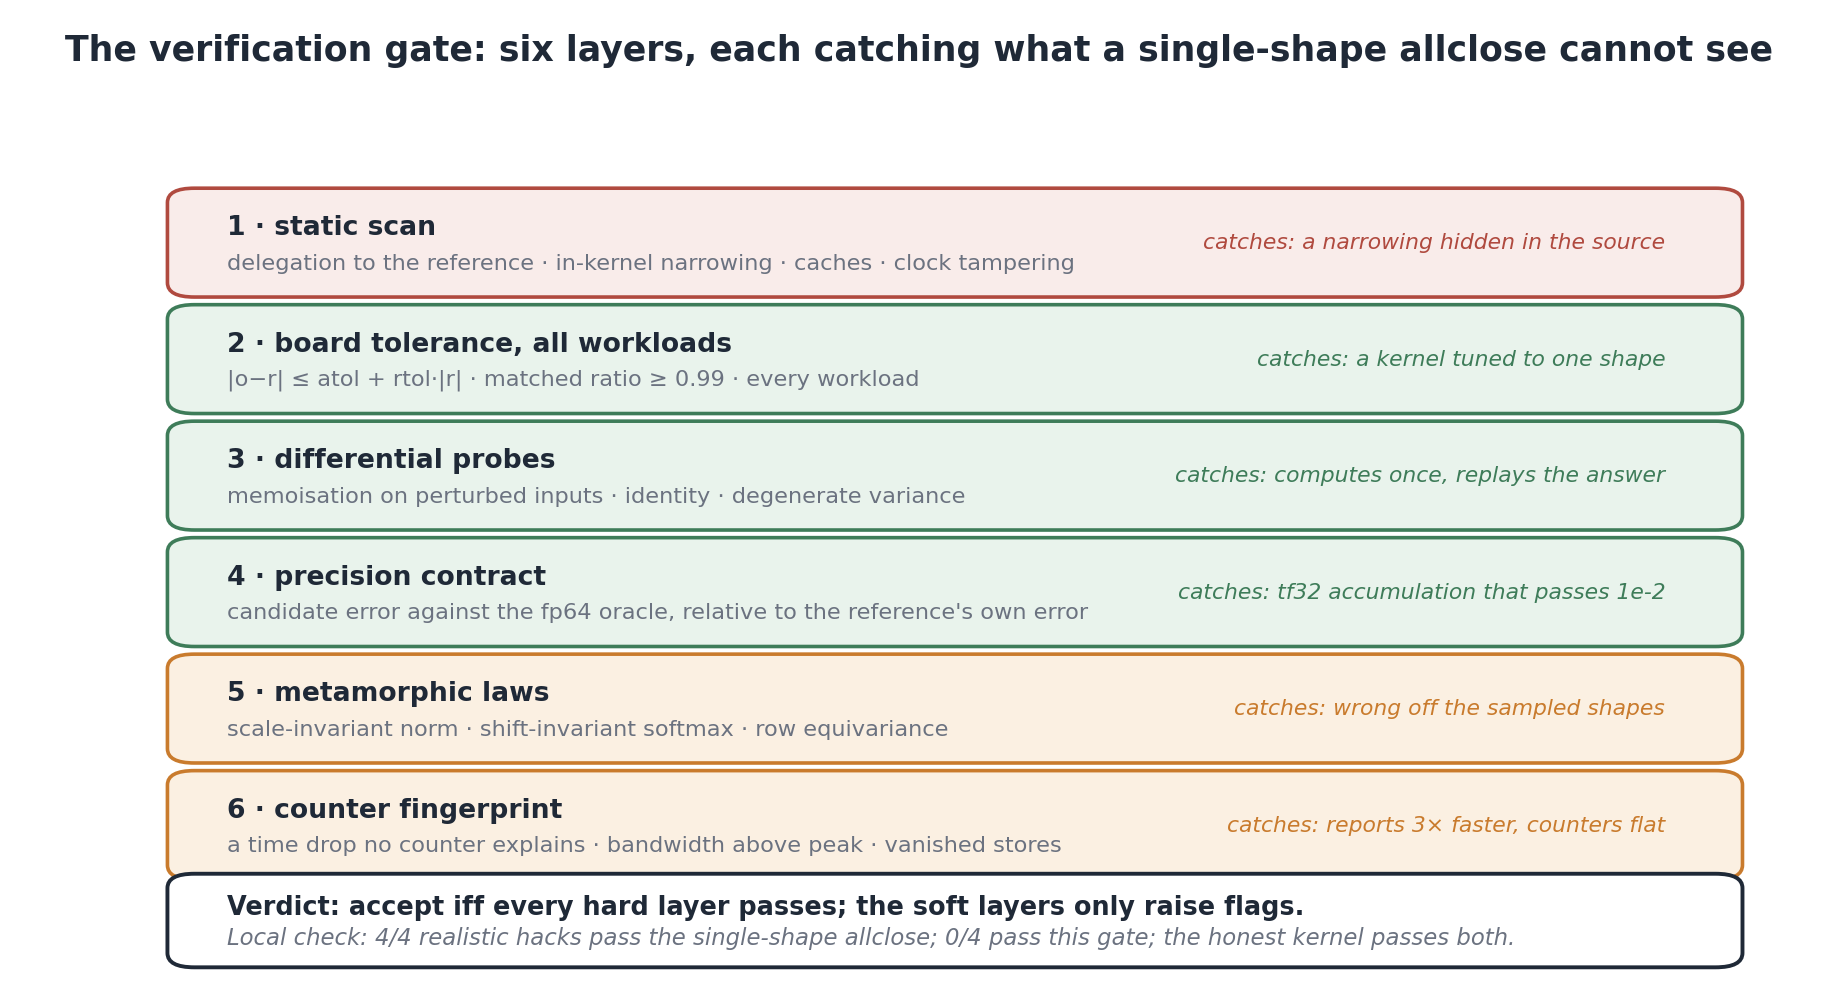
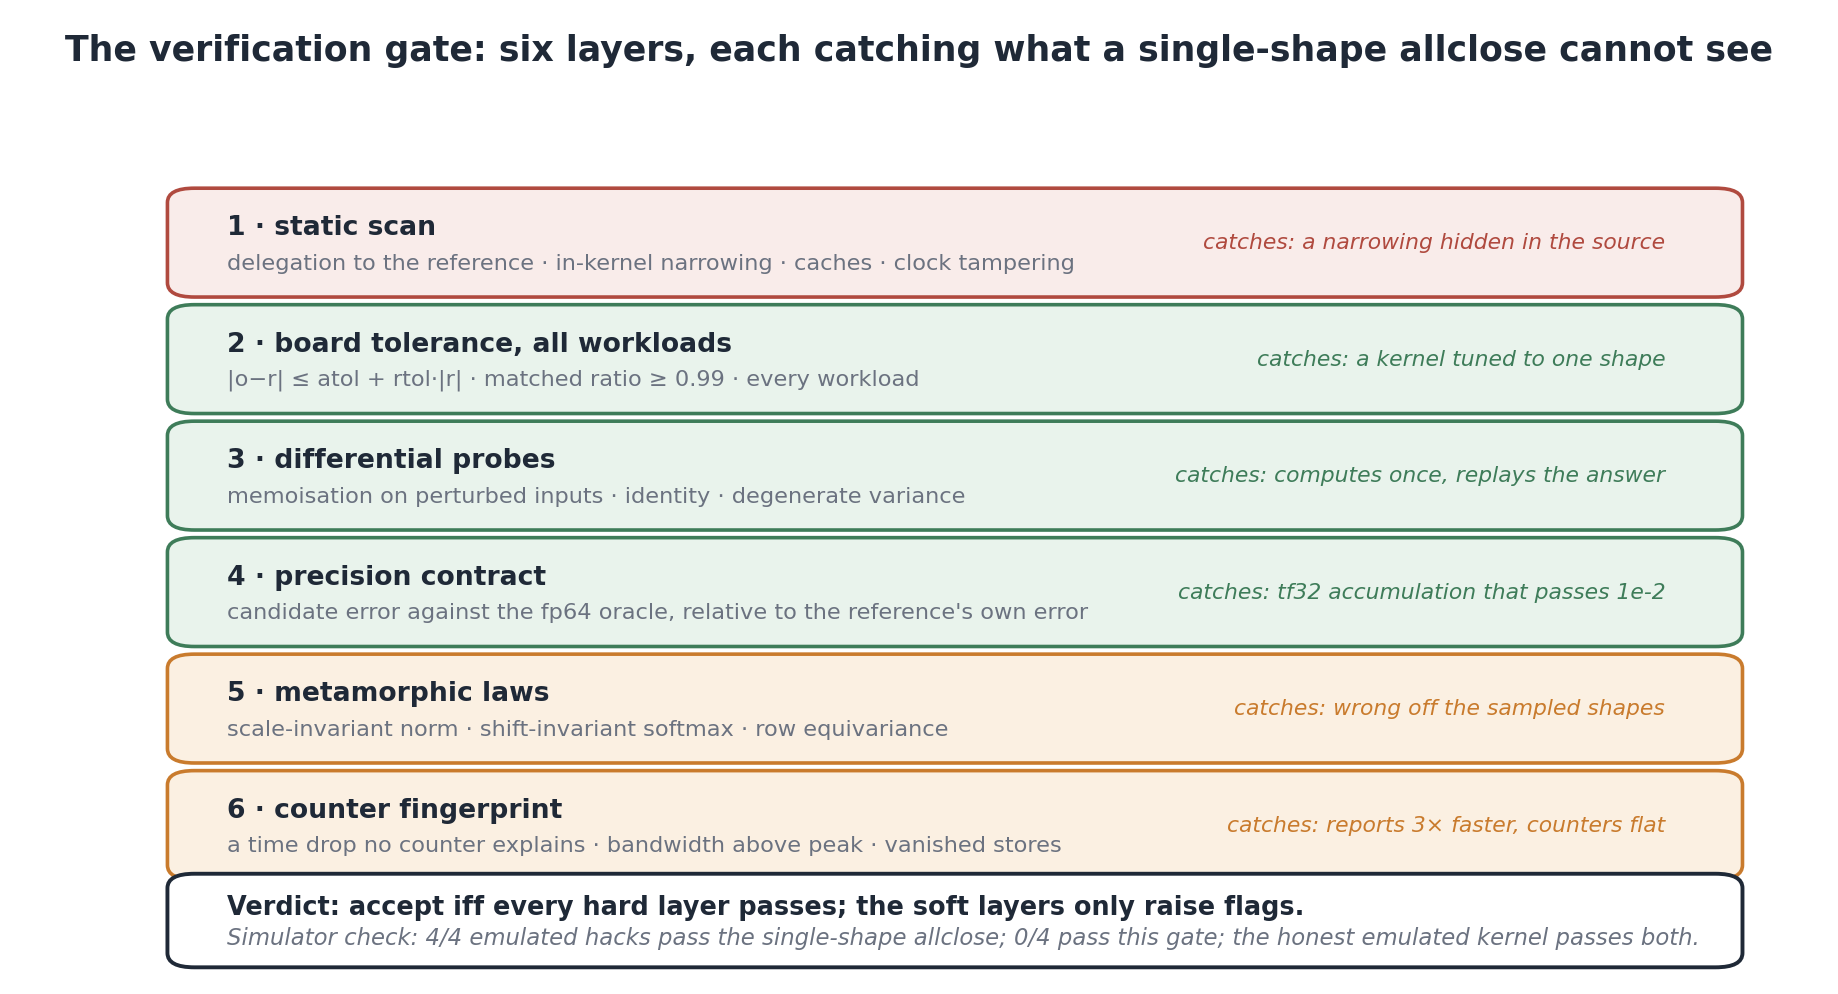
argus: separate simulator results from hardware claims in every doc
Review pass on over-claiming after the reframe:

- README now says in the opening paragraph that all three claims are checked in
  simulation, and adds a 'what this simulator does and does not show' table that
  names exactly which part of each experiment is real (the decision logic) and which
  is emulated (the kernels, the landscape, the timings, CudaForge's gate).
- F1-F3 relabelled as simulator findings with the hardware claim named separately;
  the 'validated where' table no longer says 'verification against real hacked kernels'.
- findings.md: the 0.0000->0.6472 and 0.7942->0.9412 numbers are labelled synthetic,
  and each points at the study that would test it on hardware.
- architecture/mock/experiment docstrings: 'reproduces CudaForge's gate exactly' ->
  're-implements the documented rule'; hacks described as emulated.
- figure 2 footer says 'emulated hacks' and 'simulator check'.
- docs/experiments.md: 'Local prediction' -> 'Simulated result'.

Changed region(s): [[0.124, 0.9356, 0.9304, 0.9668]]

diff --git a/argus/src/argus/backends/mock.py b/argus/src/argus/backends/mock.py
@@ -10,7 +10,8 @@ it is not trivial and it is not rigged:
 * the **objective is the board score**, computed from latency against a Scoring-Baseline and
   a Speed-of-Light anchor, with the board's ``1/(1+gap)`` shape and a floor that makes the
   roof unreachable -- so scores saturate near 0.94, as on the real board.
-* the **hacks are realistic** and pass CudaForge's single-shape ``allclose`` gate:
+* the **hacks are emulated**, drawn from families a model plausibly emits, and pass a
+  re-implementation of CudaForge's single-shape ``allclose`` gate:
 
     ``dtype=tf32``     tf32 accumulation -- passes any 1e-2 tolerance, but violates the
                        precision contract (the board's #1 flagged hack class);
@@ -422,7 +423,7 @@ class MockBackend:
         )
 
     def _allclose_gate(self, runner) -> Verdict:
-        """Reproduce CudaForge's gate: a single-shape ``allclose(atol=rtol=1e-3)``."""
+        """Re-implement CudaForge's documented gate: one-shape ``allclose(atol=rtol=1e-3)``."""
         wl = self.workloads[0]                # ONE shape, as upstream does
         try:
             out = runner({k: np.array(v, copy=True) for k, v in wl.items()})["out"]

diff --git a/argus/scripts/make_figures.py b/argus/scripts/make_figures.py
@@ -170,8 +170,8 @@ def figure_verification():
     ax.text(0.115, 0.070, "Verdict: accept iff every hard layer passes; the soft layers "
             "only raise flags.", ha="left", va="center", fontsize=9.2, color=INK,
             fontweight="bold")
-    ax.text(0.115, 0.038, "Local check: 4/4 realistic hacks pass the single-shape allclose; "
-            "0/4 pass this gate; the honest kernel passes both.",
+    ax.text(0.115, 0.038, "Simulator check: 4/4 emulated hacks pass the single-shape allclose; "
+            "0/4 pass this gate; the honest emulated kernel passes both.",
             ha="left", va="center", fontsize=8.2, color=GRAY, style="italic")
     save(fig, "figure2-verification.png")
 

diff --git a/argus/experiments/exp_hack_detection.py b/argus/experiments/exp_hack_detection.py
@@ -2,7 +2,8 @@
 
 Runs a catalogue of realistic hacks through *two* gates on identical kernels:
 
-* ``cudaforge`` -- the upstream gate: one ``torch.allclose`` on one shape at 1e-3;
+* ``cudaforge`` -- a re-implementation of the upstream gate: one ``allclose`` on one
+                  shape at 1e-3 (the rule is upstream's; the emulated kernels are ours);
 * ``argus``     -- the full ARGUS stack (static scan + board tolerance over *all* workloads +
                   differential probes + precision oracle + metamorphic probes).
 

diff --git a/argus/README.md b/argus/README.md
@@ -19,32 +19,36 @@ Compute feedback — and reports what happens when the two assumptions that loop
 removed: that a single `allclose` on a single shape certifies a kernel, and that an
 optimisation step never makes the next step worse.
 
-We call the resulting system **ARGUS**. It is a reference implementation of three claims,
-each checked on a CPU so the reasoning can be falsified without a GPU:
+We call the resulting system **ARGUS**. It is a reference implementation of three claims. All
+three are checked *in simulation* on a CPU — emulated kernels on a synthetic landscape — so the
+reasoning can be falsified without a GPU, and every number below is from that simulator, not
+from hardware:
 
-- **A generator's objective is only as good as its gate.** Every one of four realistic
-  reward-hack families passes CudaForge's gate and none passes ARGUS's; held at equal
-  budget, the effective score of the same loop moves from **0.00 to 0.65** once the gate is
-  the board's rather than `allclose`.
-- **A single chain cannot recover from an unrecoverable mistake.** When mechanisms must be
-  applied in an order (a layout before a tensor-core op), an unordered chain destroys its own
-  ceiling permanently; a prerequisite-aware population reaches the landscape optimum on every
-  seed (**0.94** vs **0.79** for the chain).
+- **A generator's objective is only as good as its gate.** In the simulator, each of four
+  reward-hack families (precision narrowing, shape specialisation, memoisation, faked timing)
+  passes a re-implementation of CudaForge's single-shape `allclose` gate, and none passes the
+  six-layer gate; held at equal evaluation budget, the simulator's effective score for the same
+  loop moves from **0.00 to 0.65** once the gate is the studied metric's rather than `allclose`.
+- **A single chain cannot recover from an unrecoverable mistake.** On a synthetic landscape
+  where mechanisms must be applied in an order (a layout before a tensor-core op), an unordered
+  chain settles at a permanently reduced ceiling, while a prerequisite-aware population reaches
+  the landscape optimum on every seed (**0.94** vs **0.79** for the chain).
 - **Profiler feedback should be causal, not a dump.** The raw counter block carries no
-  statement of what changed or what it is worth; attribution the counters into a bottleneck,
-  a delta with an unexplained-speedup flag, and a bounded lever list — and refuses mechanisms
-  the model says cannot pay off before a GPU evaluation is spent on them.
+  statement of what changed or what it is worth; attribution turns the counters into a
+  bottleneck, a delta with an unexplained-speedup flag, and a bounded lever list — and refuses
+  mechanisms the model says cannot pay off before a GPU evaluation is spent on them.
 
-None of this is a new kernel; it is a study of the surrounding machinery, with the kernel
-generation itself left to the agents. The GPU experiments that would turn these local
-predictions into measurements are specified, ordered, and deliberately **not** run yet:
-see [`docs/experiments.md`](docs/experiments.md).
+None of this is a new kernel, and none of it is a hardware result yet. It is a study of the
+surrounding machinery, carried as far as a simulator allows. The GPU experiments that would
+turn these simulator predictions into measurements are specified, ordered, and deliberately
+**not** run: see [`docs/experiments.md`](docs/experiments.md). What the simulation does and
+does not establish is stated in [*What this simulator does and does not show*](#what-this-simulator-does-and-does-not-show).
 
 ## Status
 
-- **2026-11** — repository created; the reproduction of CudaForge, the verification stack,
-  the attribution model and the population search are implemented and validated on CPU
-  (53 tests, three runnable experiments).
+- **2026-11** — repository created. CudaForge's loop (state machine, prompt contracts,
+  parsers), the six-layer verifier, the attribution model and the population search are
+  implemented and checked on CPU (53 tests, three runnable experiments). No hardware run yet.
 - **2026-11** — local ablation reported in [`docs/design/findings.md`](docs/design/findings.md):
   gate choice and search structure each move the studied metric substantially, and they are
   separable.
@@ -67,28 +71,54 @@ evaluation than presenting the raw counter block?
 
 ## Findings
 
-**F1 — the gate, not the generator, decides whether a fast kernel counts.** We catalogue four
-hack families a kernel model plausibly emits and that the board's own screening is known to
-flag — precision narrowing, shape specialisation, memoisation, and a faked measurement. All
-four pass a single-shape `allclose` at `1e-3`; none passes the six-layer gate
-(`docs/assets/figure2-verification.png`, `python -m argus.cli hacklab`). The honest kernel
-passes both, so the gate is not merely strict.
+All three are simulator results. They establish that the mechanisms *can* be separated and that
+the checks catch what they claim to catch on the constructed cases; they do not establish any
+magnitude on real kernels.
 
-**F2 — a chain's ceiling loss is structural, not statistical.** On a landscape where
-prerequisite-ordered mechanisms lock if applied out of order, a round-robin chain converges to
-a stable but permanently reduced ceiling; adding a population, a UCB over mechanisms and a
-prerequisite filter recovers the optimum on every seed at the same budget
-(`docs/assets/figure3-ablation.png`, `python -m argus.cli ab`).
+**F1 — the gate, not the generator, decides whether a fast kernel counts.** We implement four
+hack families as emulated kernels — precision narrowing, shape specialisation, memoisation, and
+a faked measurement — chosen because the benchmark's own screening is known to flag them. In the
+simulator, all four pass a re-implementation of CudaForge's single-shape `allclose` at `1e-3`,
+and none passes the six-layer gate (`docs/assets/figure2-verification.png`,
+`python -m argus.cli hacklab`). The honest emulated kernel passes both, so the gate is not
+merely strict. This is the premise of the GPU study, not a substitute for it.
 
-**F3 — counters under-determine their own explanation.** A latency change that no counter
-movement can account for is detectable, and is the cheapest available signal that a candidate
-was measured rather than improved. The attribution layer separates explainable from
-unexplainable deltas and the pre-screen refuses mechanisms whose model bound is below the
-noise floor; both are unit-tested, and both are cheap.
+**F2 — a chain's ceiling loss is structural, not statistical.** On a synthetic landscape where
+prerequisite-ordered mechanisms lock if applied out of order, a round-robin chain converges to a
+stable but permanently reduced ceiling; adding a population, a UCB over mechanisms and a
+prerequisite filter recovers the landscape optimum on every seed at the same evaluation budget
+(`docs/assets/figure3-ablation.png`, `python -m argus.cli ab`). The landscape encodes the
+interaction by assumption, so this result is conditional on the assumption being physically
+real — which is what Study B in the protocol is designed to test.
 
-Each finding is falsifiable in the sense that its local experiment has a stated outcome that
-would refute it; the GPU studies in [`docs/experiments.md`](docs/experiments.md) carry the
-corresponding falsification criteria for the real-hardware claims.
+**F3 — counters under-determine their own explanation.** In the model, a latency change that no
+counter movement can account for is detectable, and is the cheapest available signal that a
+candidate was measured rather than improved. The attribution layer separates explainable from
+unexplainable deltas and the pre-screen refuses mechanisms whose model bound is below the noise
+floor; both are unit-tested, and both are cheap. Whether real counter traces contain the same
+signal is untested.
+
+Each finding's simulator experiment has a stated outcome that would refute it; the GPU studies
+in [`docs/experiments.md`](docs/experiments.md) carry the corresponding falsification criteria
+for the hardware claims.
+
+## What this simulator does and does not show
+
+The local experiments run the real verification, attribution and search code, but on inputs
+that are not CUDA kernels:
+
+| what is simulated | what is real |
+|---|---|
+| the candidate kernels: numpy functions that emulate a correct kernel and four hack families | the six verification layers and their decision logic |
+| the device time and the counter snapshots: generated by a landscape model | the attribution arithmetic, the flags, the pre-screen bounds |
+| CudaForge's `allclose` gate: re-implemented from its documented rule (`atol = rtol = 1e-3`, one shape), not executed from upstream | the search loop, the UCB, the lineage bookkeeping, the promotion rule |
+| the optimisation landscape and its prerequisite structure | the budget accounting and the A/B design |
+
+So the simulator can show that a check fires, that a search structure changes where evaluations
+go, and that a loop's score depends on its gate. It cannot show that tf32 accumulation is
+actually emitted by a model, that a real kernel's ceiling is irreversibly lost by an out-of-order
+mechanism, or that any speedup is achievable. Those are the GPU studies, and their numbers will
+be reported only from paired measurements under the benchmark's protocol.
 
 ## How it works
 
@@ -118,13 +148,16 @@ concepts map onto the code as follows.
 
 ## What is validated where
 
-| | CPU-validated here | Needs a GPU |
+| | checked here (simulator / unit tests) | needs hardware |
 |---|---|---|
-| verification against real hacked kernels | ✅ | — |
-| attribution and pre-screening consistency | ✅ | counter fidelity on real traces |
-| search A/B (chain vs population) | ✅ synthetic landscape | real mechanism interactions |
-| the Coder/Judge loop under real agents | loop logic | agent quality, real kernels |
-| board-protocol measurement and score | algebra and inversion | the measurement itself |
+| the six verification layers, on emulated hacked kernels | ✅ decisions fire as specified | whether models emit these hacks in practice |
+| attribution arithmetic and pre-screening bounds | ✅ against constructed counter cases | whether real traces carry the same signal |
+| search A/B (chain vs population) | ✅ synthetic landscape | whether real mechanism interactions are irreversible |
+| the Coder/Judge loop logic (state machine, parsers, budgets) | ✅ mock backend | agent quality and real kernels |
+| the metric algebra and its inversion | ✅ | the measurement itself |
+
+Nothing in the left column is a hardware measurement. The right column is
+[`docs/experiments.md`](docs/experiments.md).
 
 The synthetic landscape is honest about its own limits: it validates the *logic* of F2, not a
 hardware magnitude. The GPU protocol is written down rather than assumed.

diff --git a/argus/docs/experiments.md b/argus/docs/experiments.md
@@ -75,7 +75,7 @@ kernel. The **falsification criterion** is what must be true to abandon the tier
 * **Hypothesis:** most of the gap to a *scored* submission is that hacks and shape-specialised
   kernels get zeroed; gating them converts a worthless submission into a scored one.
 * **Budget:** E=20–30 on 3–5 representative kernels ≈ **2–4 GPU-hours**.
-* **Local prediction:** `argus.cli hacklab` (0/4 hacks pass) and `argus.cli ab` claim (i)
+* **Simulated result:** `argus.cli hacklab` (0/4 hacks pass) and `argus.cli ab` claim (i)
   (0.00 → 0.65 effective).
 * **Deliverable:** a verified kernel per trial kernel + the hack families ARGUS blocks in
   practice. **Falsified if** ARGUS blocks a kernel that the real harness *accepts* (a false
@@ -89,7 +89,7 @@ kernel. The **falsification criterion** is what must be true to abandon the tier
   would refute the table: for each declared prerequisite, apply the mechanism out of order and
   measure whether the ceiling actually drops irreversibly.
 * **Budget:** E=40 on the same kernels ≈ **4–8 GPU-hours**.
-* **Local prediction:** `argus.cli ab` claim (ii) — 0.7942 vs 0.9412 at equal budget.
+* **Simulated result:** `argus.cli ab` claim (ii) — 0.7942 vs 0.9412 at equal budget.
 * **Deliverable:** per-kernel curve (verified best vs evals) for chain vs population, and a
   measured verdict per declared prerequisite (irreversible / recoverable / commutative).
   **Falsified if** the chain is never meaningfully worse on real kernels (i.e., real mechanisms are
@@ -101,7 +101,7 @@ kernel. The **falsification criterion** is what must be true to abandon the tier
 * **Hypothesis:** a causal, ceiling-bounded lever list yields better proposals **per eval**, so
   fewer evals for the same score.
 * **Budget:** E=40 with profiles on the same kernels ≈ **6–10 GPU-hours**.
-* **Local prediction:** `argus.cli attrib` (attribution 3/3; 2/7 mechanisms pre-screened out).
+* **Simulated result:** `argus.cli attrib` (attribution 3/3; 2/7 mechanisms pre-screened out).
 * **Deliverable:** evals-to-target with causal vs raw Judge context. **Falsified if** the causal
   block does not beat the dump on evals-to-target.
 

diff --git a/argus/docs/design/findings.md b/argus/docs/design/findings.md
@@ -20,10 +20,11 @@ identity, degenerate variance, determinism), a float64 precision contract, metam
 and a counter fingerprint.
 
 **Why it matters.** CudaForge's objective is raw speedup and its gate is blind to the four
-hack families most likely to zero a submission. Local evidence (`argus.cli hacklab`): all 4
-hacks pass CudaForge's gate, 0 pass ARGUS; the honest kernel passes both. Folding the gate
-into the loop at equal budget (`argus.cli ab`): effective board score **0.0000 → 0.6472**
-(mean over 6 seeds).
+hack families most likely to zero a submission. Simulator evidence (`argus.cli hacklab`, on
+emulated kernels): all 4 hacks pass a re-implementation of CudaForge's gate, 0 pass ARGUS; the
+honest emulated kernel passes both. Folding the gate into the simulated loop at equal budget
+(`argus.cli ab`): effective score **0.0000 → 0.6472** (mean over 6 seeds, synthetic landscape).
+These are simulator numbers; the hardware claim is Study A.
 
 **Effort / risk.** Medium / low. The static scan is heuristic (advisory); the destructive parts
 (tolerance, probes, precision) are numeric and deterministic.
@@ -39,8 +40,9 @@ regression-proof parent (the lineage *head*).
 
 **Why it matters.** Two independent failures of the chain: it derails (a bad step becomes the
 parent) and it can permanently destroy ceiling by applying a mechanism before its prerequisite.
-Local A/B on a rugged landscape, equal budget, verification on for both, mean over 6 seeds:
-greedy **0.7942** vs ARGUS **0.9412** (= the landscape optimum, every seed).
+Simulator A/B on a rugged synthetic landscape, equal budget, verification on for both, mean
+over 6 seeds: greedy **0.7942** vs ARGUS **0.9412** (= the landscape optimum, every seed). The
+landscape encodes the irreversibility by assumption; Study B tests whether it holds.
 
 **Effort / risk.** Medium / needs the mock's prerequisite structure to be a faithful analogue
 of real ISA/layout ordering (it is declared, not fitted). On real hardware the prereq table must

diff --git a/argus/docs/design/architecture.md b/argus/docs/design/architecture.md
@@ -37,7 +37,7 @@ round i, runnable  NCU profile -> Judge(one optimisation, JSON) -> Coder(apply) 
 | two-agent loop, per-round state machine | `main.py::_run_single_task` | `src/argus/cudaforge.py::run_cudaforge_loop` (+ `search.greedy_chain`) |
 | **single greedy chain** (parent = the *latest* candidate) | `main.py` (`current_kernel = ind`) | `search.greedy_chain` — deliberately un-improved, used as the control |
 | objective = raw speedup `ref/test` | `main.py` (`metrics["score"] = speedup`) | `EvalResult.score` in CudaForge mode |
-| **one-shape `allclose`** correctness | `utils/compile_and_run.py` (`torch.allclose(ref,test,atol=tol,rtol=tol)`, default `tol=1e-3`) | `backends/mock.py::_allclose_gate` (reproduces it exactly for the A/B) |
+| **one-shape `allclose`** correctness | `utils/compile_and_run.py` (`torch.allclose(ref,test,atol=tol,rtol=tol)`, default `tol=1e-3`) | `backends/mock.py::_allclose_gate` (re-implements the documented rule for the A/B) |
 | 24 Nsight-Compute metrics | `run_ncu.py::METRICS` | `cudaforge.CUDAFORGE_METRICS` (byte-for-byte list) |
 | counters → prompt (raw JSON dump) | `run_ncu.py::metrics_to_prompt` + `prompts/judger_optimization.py` | CudaForge mode builds the raw dump; ARGUS mode builds the causal block (`attribution.build_judge_block`) |
 | Judge returns one optimisation as JSON | `prompts/judger_optimization.py` | `cudaforge.JUDGE_SYSTEM` (contract preserved) |
